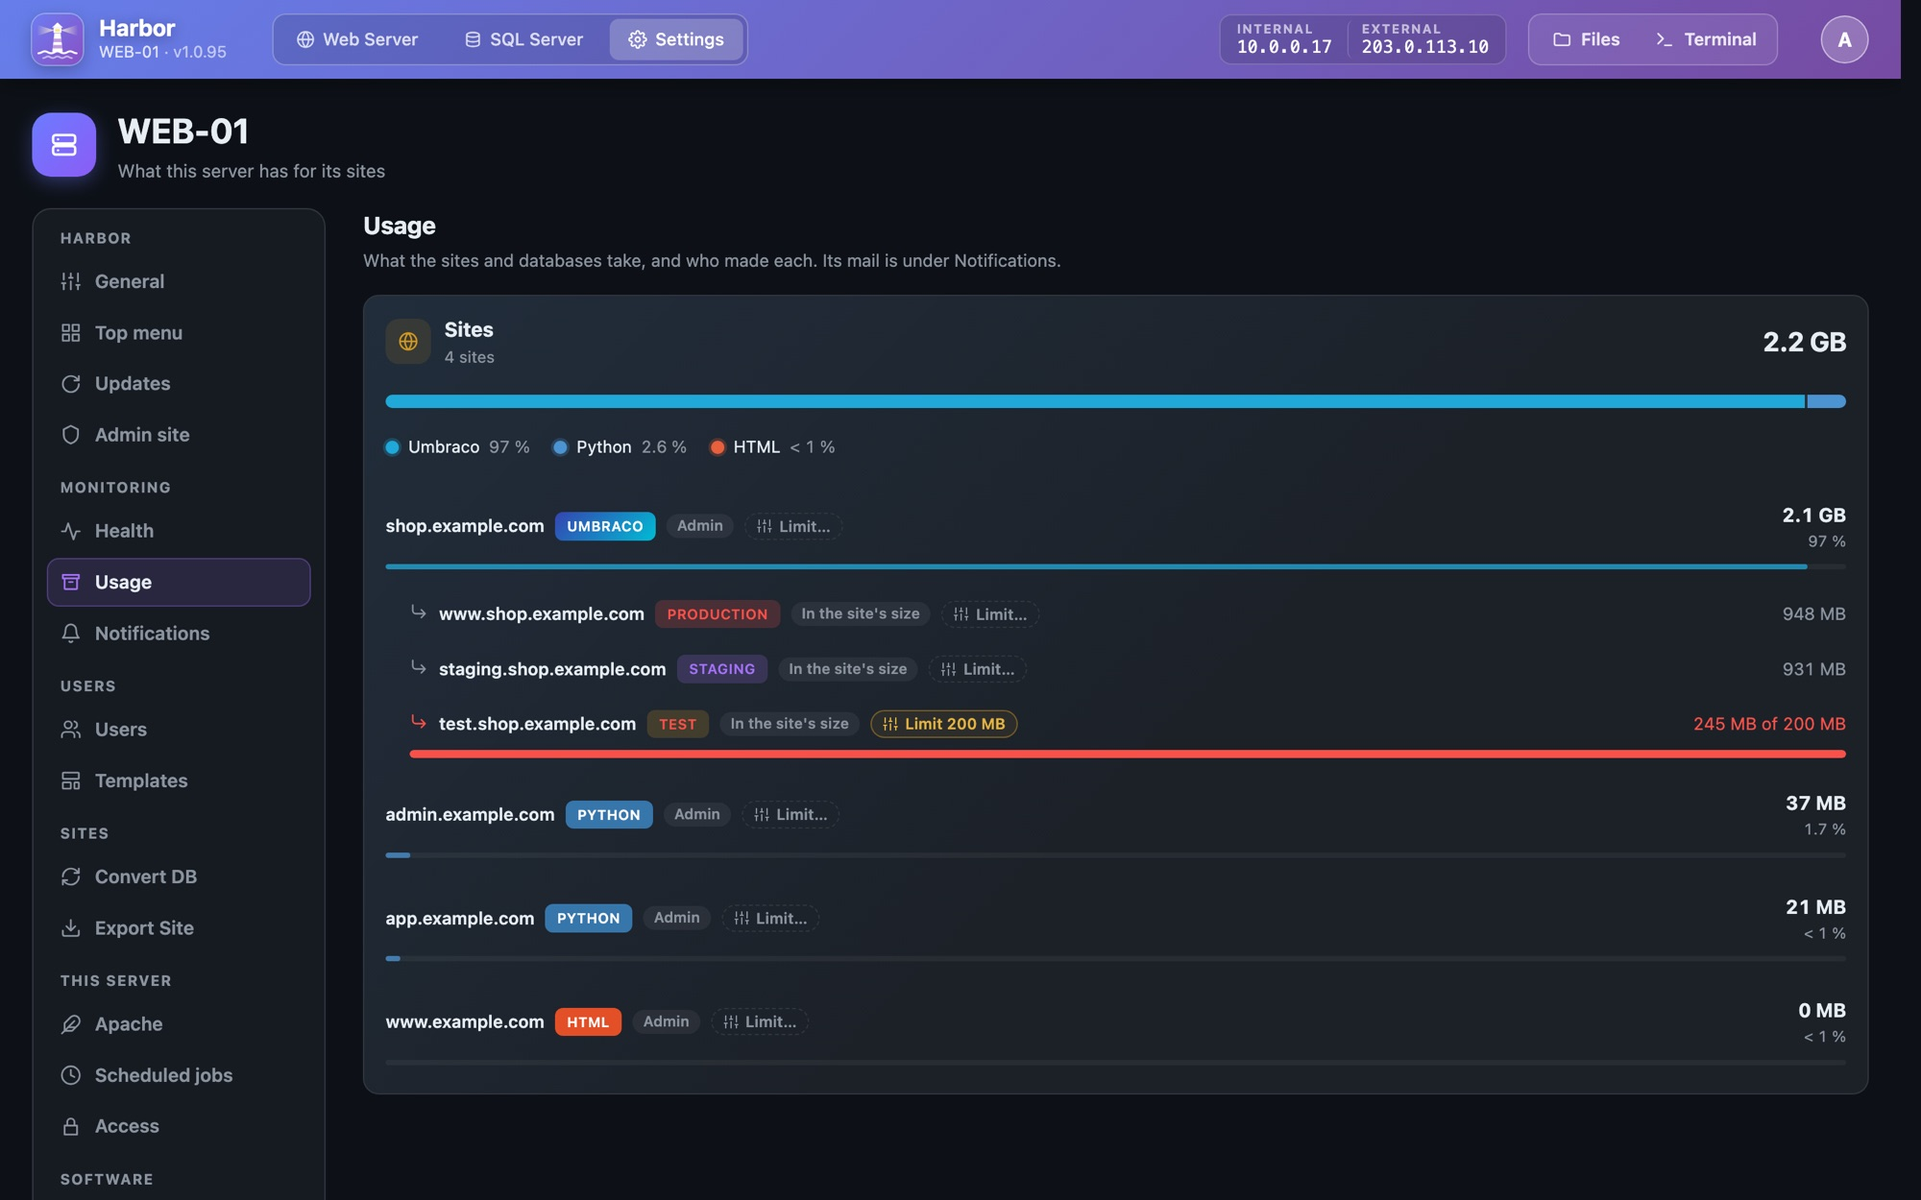
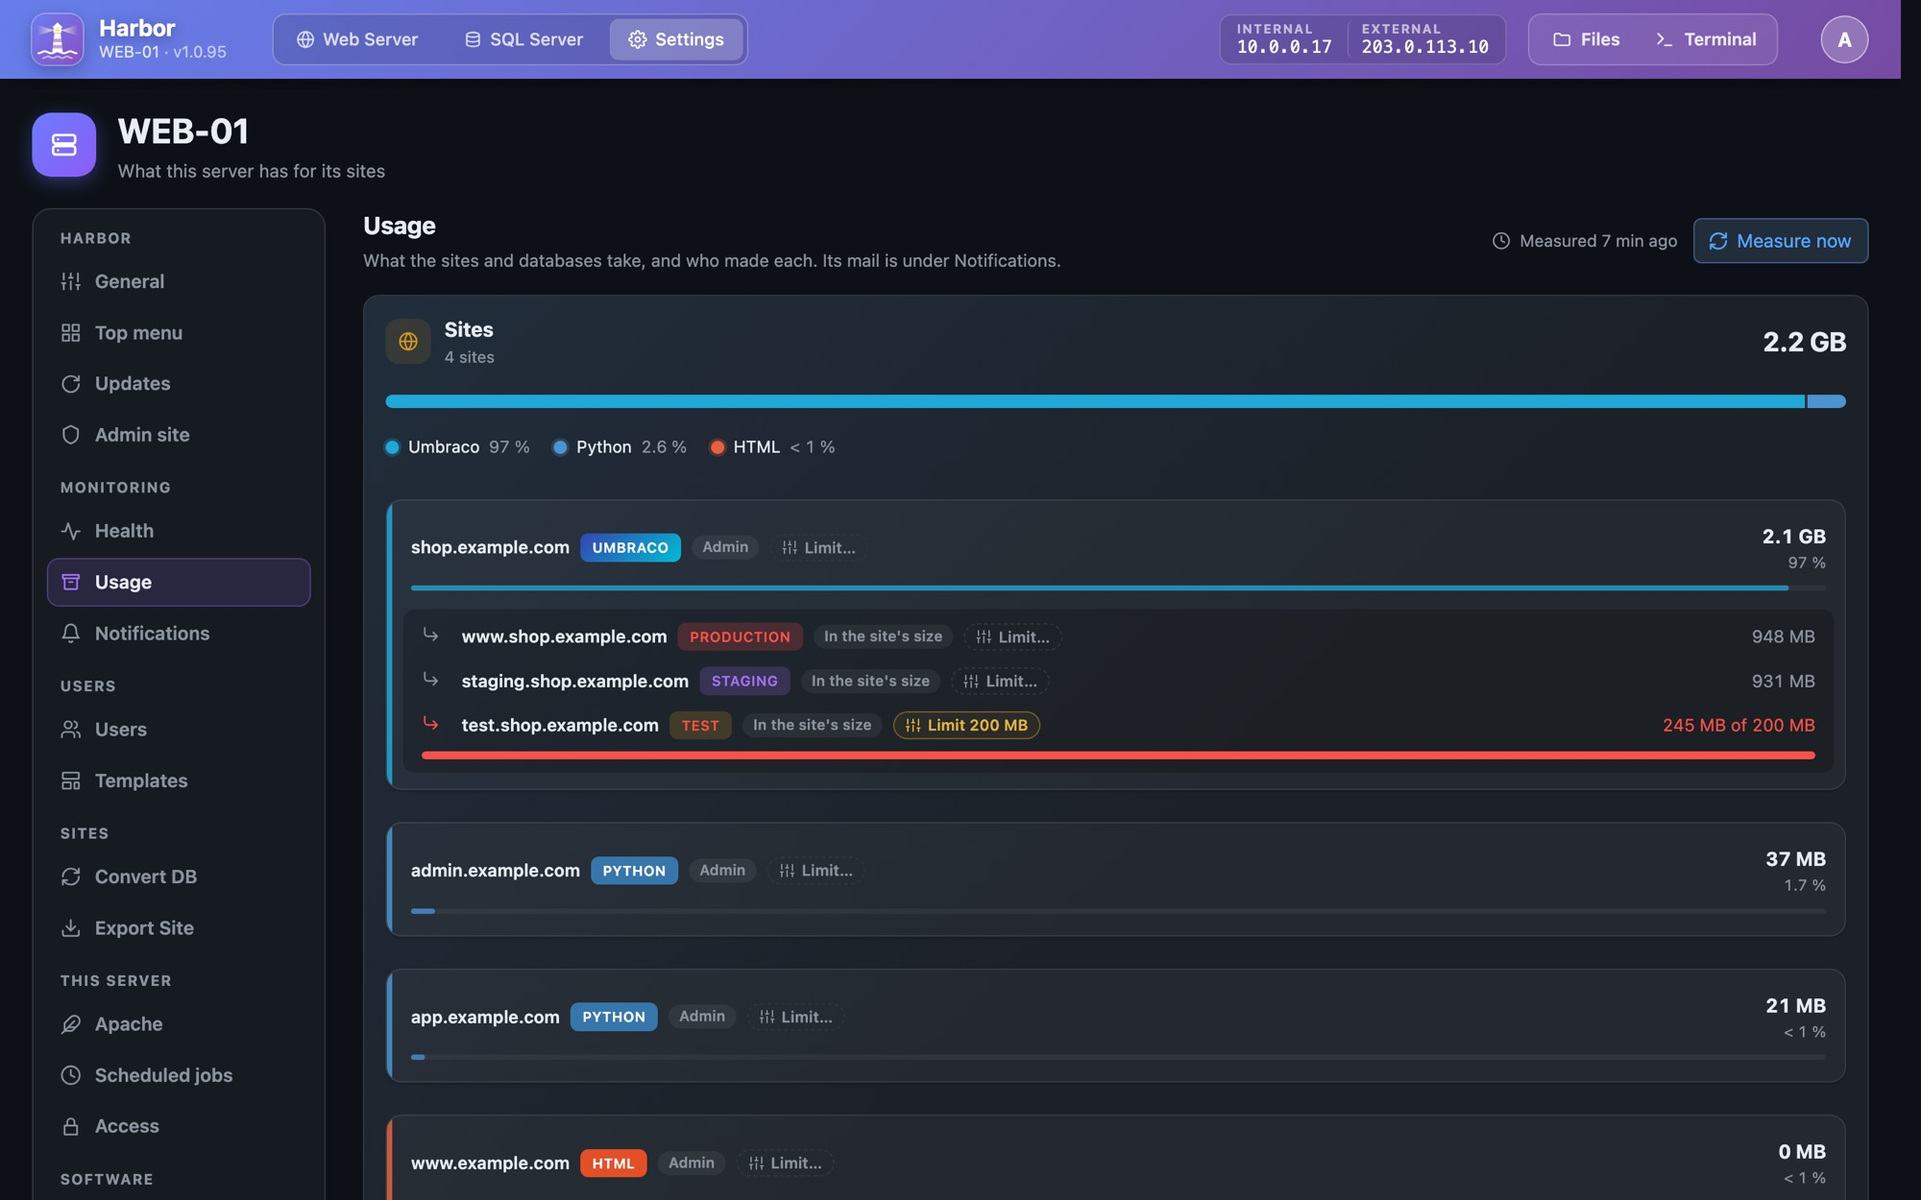
feat: Usage opens at once from the sizes measured last and measures again behind them, each site is framed with its environments, and its lines fit a phone (1.0.96)

diff --git a/admin/static/app.js b/admin/static/app.js
@@ -9697,13 +9697,42 @@ function focusUserLimit(target) {
 
 // Usage under Settings: the alerts, then every site and every database on each connection, biggest first, each with
 // who made it and its limit. Measured as it opens, so it shows what is there now.
-async function openUsageSettings() {
+// The sizes measured last show at once; older than ten minutes, they are measured again behind them, and the page is
+// drawn again when that is done. Measure now asks for it at once.
+let usageMeasuring = null;
+function showUsageMeasured(all) {
+	const box = $("#usage-measured");
+	box.hidden = false;
+	const busy = Boolean(usageMeasuring);
+	box.replaceChildren(el("span", { className: "usage-measured-when" + (busy ? " busy" : ""), title: all?.measured ? `Measured ${formatDate(all.measured * 1000)}` : "" },
+		busy ? el("span", { className: "loading-ring small", ariaHidden: "true" }) : svgIcon("clock"),
+		busy ? "Measuring now…" : all?.measured ? `Measured ${syncAgo(all.measured * 1000)}` : ""),
+		...(busy ? [] : [tonedButton("Measure now", "sync", "blue", () => run(() => openUsageSettings(true)))]));
+}
+async function openUsageSettings(fresh = false) {
 	const list = $("#server-usage-list");
+	if (fresh && usageMeasuring) return usageMeasuring;
 	list.setAttribute("aria-busy", "true");
 	const measuring = el("div", { className: "tool-card tool-card-wide usage-overview" }, loadingState("Measuring the sites and databases…"));
-	list.replaceChildren(measuring);
+	// Fresh sizes are measured behind what is shown; only an empty page shows the measuring
+	if (!fresh || !list.querySelector(".usage-overview:not(:has(.loading-state))")) list.replaceChildren(measuring);
+	let all, known;
 	try {
-		const [all, known] = await Promise.all([api("/api/usage/all"), sitesLoaded ? Promise.resolve({ sites: allSites }) : api("/api/sites").catch(() => ({ sites: [] }))]);
+		const request = api("/api/usage/all" + (fresh ? "?fresh=1" : ""));
+		if (fresh) {
+			usageMeasuring = request;
+			showUsageMeasured(null);
+		}
+		try {
+			[all, known] = await Promise.all([request, sitesLoaded ? Promise.resolve({ sites: allSites }) : api("/api/sites").catch(() => ({ sites: [] }))]);
+		} finally {
+			if (fresh) usageMeasuring = null;
+		}
+		// Gone to another page meanwhile: nothing to draw
+		if (fresh && !serverTabOpen("usage")) return;
+		if (!list.contains(measuring)) list.replaceChildren(measuring);
+		showUsageMeasured(all);
+		if (all.stale && !fresh) setTimeout(() => { if (serverTabOpen("usage")) run(() => openUsageSettings(true)); });
 		// Each site's kind beside its name, as its card on Web Server has it
 		const kindOf = Object.fromEntries((known.sites || []).map((site) => [site.name, site.kind]));
 		const total = (items) => usageSize(Math.round(items.reduce((sum, item) => sum + item.size_mb, 0) * 10) / 10);
@@ -9768,8 +9797,12 @@ async function openUsageSettings() {
 						onclick: () => run(() => askUsageLimit(limitTarget.site ? "site" : "database", item.name, limitTarget.connection || "", item.server_limit_mb)) },
 						svgIcon("sliders"), item.server_limit_mb ? `Limit ${usageSize(item.server_limit_mb)}` : "Limit…"));
 					if (!line.querySelector(".usage-bar")) line.append(el("div", { className: "usage-share-bar" }, el("span", { style: `width: ${Math.max(share(item), item.size_mb ? 1 : 0)}%` })));
-					// A site's environments under it, as Export and Convert DB list them
-					return [line, ...(icon === "globe" ? environmentLines(item.name) : [])];
+					// A site's environments under it, as Export and Convert DB list them: the site and they framed together,
+					// so one site is told from the next at a glance
+					if (icon !== "globe") return [line];
+					const envs = environmentLines(item.name);
+					return [el("div", { className: "usage-site-group kind-" + kind + (envs.length ? " has-envs" : "") }, line,
+						...(envs.length ? [el("div", { className: "usage-site-envs" }, ...envs)] : []))];
 				}) : [el("p", { className: "muted usage-none", textContent: empty })]));
 		};
 		// A database opens the SQL page on its connection, its tab Databases
@@ -9823,6 +9856,11 @@ async function openUsageSettings() {
 				return part;
 			}), ...environmentsPart);
 	} catch (error) {
+		// Measured again behind what is shown: that stays, and the error is told as any other
+		if (!list.contains(measuring)) {
+			showUsageMeasured(all);
+			throw error;
+		}
 		measuring.replaceChildren(el("p", { className: "error", textContent: error.message }));
 	} finally {
 		list.removeAttribute("aria-busy");

diff --git a/admin/static/style.css b/admin/static/style.css
@@ -1729,6 +1729,23 @@ body[data-role="user"] #settings-menu, body[data-role="user"] #btn-multi { displ
 .usage-meter-head strong { display: inline-flex; align-items: center; min-width: 0; }
 .usage-meter-head strong { overflow: hidden; text-overflow: ellipsis; white-space: nowrap; font-weight: 600; }
 .usage-meter-head span { flex: none; color: var(--muted); font-variant-numeric: tabular-nums; }
+/* A line's name and its chips wrap where the room ends (a phone, a long name), never past the card's edge */
+.usage-overview .usage-meter-head strong { flex: 1 1 auto; flex-wrap: wrap; gap: 6px 8px; overflow: visible; white-space: normal; }
+.usage-overview .usage-meter-head strong > .badge, .usage-overview .usage-meter-head strong > .usage-owner,
+.usage-overview .usage-meter-head strong > .usage-limit-link { margin-left: 0; }
+.usage-overview .usage-open { min-width: 0; white-space: normal; overflow-wrap: anywhere; text-align: left; }
+.usage-overview, .usage-overview > *, .usage-site-group > *, .usage-site-envs > * { min-width: 0; }
+@media (max-width: 640px) {
+	.usage-overview .usage-meter-head { align-items: flex-start; }
+	.usage-overview .usage-site-group { padding: 6px 10px 6px 14px; }
+	.usage-overview .usage-site-envs { margin-left: -4px; margin-right: -4px; }
+	.usage-overview .usage-site-envs .usage-meter.usage-env { padding: 6px 4px; }
+	/* The name on a line of its own, its chips in a row under it; an environment's bend in front, hanging */
+	.usage-overview .usage-meter-head strong > .usage-open { flex-basis: 100%; }
+	.usage-overview .usage-env .usage-meter-head strong { position: relative; padding-left: 22px; }
+	.usage-env-bend { position: absolute; left: 0; top: 1px; margin: 0; }
+	.server-pane-head .usage-measured { width: 100%; justify-content: space-between; }
+}
 .usage-bar { height: 6px; border-radius: 999px; background: rgba(255, 255, 255, .07); overflow: hidden; }
 .usage-bar span { display: block; height: 100%; border-radius: inherit; background: var(--green); }
 .usage-meter.near .usage-bar span { background: #d29922; }
@@ -1804,6 +1821,21 @@ body[data-role="user"] #settings-menu, body[data-role="user"] #btn-multi { displ
 .usage-overview .usage-meter.over .usage-size strong { color: var(--red); }
 .usage-share-bar { height: 4px; overflow: hidden; border-radius: 999px; background: rgba(255, 255, 255, .05); }
 .usage-share-bar span { display: block; height: 100%; border-radius: inherit; background: var(--k); opacity: .75; }
+/* Each site framed with its environments, so one site is told from the next: a frame of its own, a stripe in its
+   kind's colour at its left, and its environments in a darker well inside it */
+.usage-site-group { position: relative; display: grid; gap: 0; margin: 6px 0; padding: 8px 14px 8px 18px; overflow: hidden;
+	border: 1px solid rgba(255, 255, 255, .09); border-radius: 12px; background: rgba(255, 255, 255, .035); box-shadow: 0 1px 2px rgba(0, 0, 0, .25); }
+.usage-site-group::before { content: ""; position: absolute; inset: 0 auto 0 0; width: 4px; background: var(--k); opacity: .85; }
+.usage-overview .usage-site-group > .usage-meter { margin: 0 -6px; padding: 8px 6px; }
+.usage-overview .usage-site-group > .usage-meter:hover:not(:where(:disabled, .disabled, .off)) { background: transparent; }
+.usage-site-envs { display: grid; gap: 0; margin: 6px -6px 4px; padding: 4px 6px; border-radius: 9px; background: rgba(0, 0, 0, .22); }
+.usage-overview .usage-site-envs .usage-meter.usage-env { margin: 0; padding: 6px 8px; }
+/* When the sizes were measured, and Measure now: at the right of the page's head */
+.usage-measured { display: flex; align-items: center; gap: 12px; flex-wrap: wrap; }
+.usage-measured[hidden] { display: none; }
+.usage-measured-when { display: inline-flex; align-items: center; gap: 7px; color: var(--muted); font-size: 12.5px; white-space: nowrap; }
+.usage-measured-when .ico { width: 14px; height: 14px; margin: 0; }
+.loading-ring.small { width: 14px; height: 14px; filter: none; -webkit-mask: radial-gradient(farthest-side, transparent calc(100% - 2px), #000 calc(100% - 2px)); mask: radial-gradient(farthest-side, transparent calc(100% - 2px), #000 calc(100% - 2px)); }
 /* A site's environment under it: in a step, after a bend, as Export lists them */
 .usage-overview .usage-meter.usage-env { margin-left: 8px; padding-top: 4px; padding-bottom: 4px; }
 .usage-env .usage-meter-head strong { font-weight: 500; }

diff --git a/admin/templates/index.html b/admin/templates/index.html
@@ -191,7 +191,7 @@
           <div id="server-menu-list" class="server-tools"></div>
         </div>
         <div id="server-pane-usage" class="server-pane" role="tabpanel" aria-labelledby="server-tab-usage" hidden>
-          <div class="server-pane-head"><div><h3>Usage</h3><p>What the sites and databases take, and who made each. Its mail is under Notifications.</p></div></div>
+          <div class="server-pane-head"><div><h3>Usage</h3><p>What the sites and databases take, and who made each. Its mail is under Notifications.</p></div><div id="usage-measured" class="usage-measured" hidden></div></div>
           <div id="server-usage-list" class="server-tools"></div>
         </div>
         <div id="server-pane-users" class="server-pane" role="tabpanel" aria-labelledby="server-tab-users" hidden>

diff --git a/lib/usage.py b/lib/usage.py
@@ -312,16 +312,23 @@ def site_limits(data_dir, site, measure_site=site_mb):
             "limit_mb": site_limit(owner, site) if owner else None, "user": (owner.get("name") or owner.get("username")) if owner else None}
 
 
-def overview(data_dir, sites, connections, measure_site=site_mb, measure_databases=database_sizes, measure_environment=None, measure_environments=None):
-    """Every site here and every database on each connection (system databases left out), how big each is now, who
-    made it and the limit that holds for it: for an administrator. sites: the site folders; connections: {id: name}."""
+def measure_all(data_dir, sites, connections, measure_site=site_mb, measure_databases=database_sizes, measure_environments=None):
+    """How big every site here, every environment and every database on each connection is now: what takes time in
+    Usage, kept apart from who has what and their limits, so it can be kept a while (usage-sizes.json, 1.0.95)"""
+    return {"sites": {site: measure_site(site) for site in sites},
+            "environments": measure_environments() if measure_environments else all_environments_mb(),
+            "databases": {connection: measure_databases(data_dir, connection, user_only=True) for connection in connections},
+            "engines": {connection: connection_engine(data_dir, connection) for connection in connections}}
+
+
+def overview_of(data_dir, sizes, connections):
+    """Usage from sizes measured (measure_all): with who made each and the limits as they are now, as a limit changed
+    shows at once, also on sizes kept from before"""
     users = plain_users(data_dir)
     site_owner = site_owners(users)
     result = {"sites": [], "connections": []}
     server_limits = load_limits(data_dir)
-    measure_environment = measure_environment or environment_mb
-    for site in sites:
-        size = measure_site(site)
+    for site, size in sizes["sites"].items():
         if size is None:
             continue
         owner = site_owner.get(site)
@@ -330,22 +337,52 @@ def overview(data_dir, sites, connections, measure_site=site_mb, measure_databas
                                 "limit_mb": site_limit(owner, site) if owner else None, "server_limit_mb": server_limits.get(f"site|{site}")})
     # Every environment, measured where it runs (here or on its server), with the server's limit on it
     result["environments"] = [{**item, "server_limit_mb": server_limits.get(f"environment|{item['site']}|{item['target']}")}
-                              for item in (measure_environments() if measure_environments else all_environments_mb())]
+                              for item in sizes["environments"]]
     for connection, label in connections.items():
-        sizes = measure_databases(data_dir, connection, user_only=True)
+        found = sizes["databases"].get(connection) or {}
         owners = {name: user for user in users for name in ((user.get("made") or {}).get("databases") or {}).get(connection, [])}
         items = []
-        for name, size in sizes.items():
+        for name, size in found.items():
             owner = owners.get(name)
             items.append({"name": name, "size_mb": round(size, 1), "user": (owner.get("name") or owner.get("username")) if owner else None,
                           "user_id": owner.get("id") if owner else None,
                           "limit_mb": database_limit(owner, connection, name) if owner else None,
                           "server_limit_mb": server_limits.get(f"database|{connection}|{name}")})
-        result["connections"].append({"id": connection, "name": label, "unreachable": not sizes, "databases": items,
-                                      "engine": connection_engine(data_dir, connection)})
+        result["connections"].append({"id": connection, "name": label, "unreachable": not found, "databases": items,
+                                      "engine": sizes.get("engines", {}).get(connection)})
     for part in [result["sites"]] + [item["databases"] for item in result["connections"]]:
         part.sort(key=lambda item: -item["size_mb"])
     return result
+
+
+def overview(data_dir, sites, connections, measure_site=site_mb, measure_databases=database_sizes, measure_environment=None, measure_environments=None):
+    """Every site here and every database on each connection (system databases left out), how big each is now, who
+    made it and the limit that holds for it: for an administrator. sites: the site folders; connections: {id: name}."""
+    return overview_of(data_dir, measure_all(data_dir, sites, connections, measure_site, measure_databases, measure_environments), connections)
+
+
+SIZES_KEPT = 600
+
+
+def kept_overview(data_dir, sites, connections, fresh=False, now=None, **measure):
+    """Usage at once from the sizes measured last (usage-sizes.json), with measured (when) and stale (older than ten
+    minutes, or sites or connections have come or gone since): the page shows it, and asks for fresh sizes after.
+    fresh, or nothing kept yet: measured now, and kept. Who has what and the limits are always as they are now."""
+    now = time.time() if now is None else now
+    path = Path(data_dir) / "usage-sizes.json"
+    kept = report.read_json(path, {}) if not fresh else {}
+    sizes = kept.get("sizes") if isinstance(kept, dict) else None
+    valid = isinstance(sizes, dict) and all(isinstance(sizes.get(key), want) for key, want in
+                                             (("sites", dict), ("environments", list), ("databases", dict)))
+    if not valid:
+        sizes = measure_all(data_dir, sites, connections, **measure)
+        kept = {"measured": now, "sizes": sizes}
+        write_json(path, kept)
+    measured = kept.get("measured") or 0
+    stale = now - measured > SIZES_KEPT or sorted(sizes["sites"]) != sorted(sites) or sorted(sizes["databases"]) != sorted(connections)
+    # A site gone since is not shown, though its size is kept until the next measuring
+    shown = {**sizes, "sites": {site: size for site, size in sizes["sites"].items() if site in sites}}
+    return {**overview_of(data_dir, shown, connections), "measured": measured, "stale": bool(stale)}
 
 
 def size_text(mb):

diff --git a/tests/admin/test_usage.py b/tests/admin/test_usage.py
@@ -242,6 +242,28 @@ class UsageCheckTests(unittest.TestCase):
         self.assertEqual(shown["connections"][0]["name"], "Local SQL Server")
         self.assertFalse(shown["connections"][0]["unreachable"])
 
+    def test_usage_shows_the_sizes_kept_at_once_and_limits_as_they_are_now(self):
+        """Usage is slow to measure (environments on other servers over SSH): the sizes measured last come at once,
+        stale after ten minutes, while the limits are always as they are now (1.0.95)"""
+        measured = []
+        def site(name):
+            measured.append(name)
+            return self.sites.get(name)
+        measure = {"measure_site": site, "measure_databases": lambda data, connection, user_only=False: {}, "measure_environments": lambda: []}
+        first = usage.kept_overview(self.data, ["big.dk"], {}, now=1000, **measure)
+        self.assertEqual((first["measured"], first["stale"], measured), (1000, False, ["big.dk"]))
+        self.sites["big.dk"] = 999.0
+        usage.set_limit(self.data, "site", "big.dk", limit_mb=300)
+        kept = usage.kept_overview(self.data, ["big.dk"], {}, now=1500, **measure)
+        self.assertEqual(measured, ["big.dk"])
+        self.assertEqual((kept["sites"][0]["size_mb"], kept["sites"][0]["server_limit_mb"], kept["stale"]), (250.0, 300, False))
+        self.assertTrue(usage.kept_overview(self.data, ["big.dk"], {}, now=1700, **measure)["stale"])
+        # A site made since makes it stale at once; one gone is not shown
+        self.assertTrue(usage.kept_overview(self.data, ["big.dk", "new.dk"], {}, now=1100, **measure)["stale"])
+        self.assertEqual(usage.kept_overview(self.data, [], {}, now=1100, **measure)["sites"], [])
+        fresh = usage.kept_overview(self.data, ["big.dk"], {}, fresh=True, now=1800, **measure)
+        self.assertEqual((fresh["sites"][0]["size_mb"], fresh["stale"], fresh["measured"]), (999.0, False, 1800))
+
     def test_the_limits_a_site_is_held_to_for_add_environment(self):
         """Add environment tells whether a new environment counts in the site's limits: the server's own and its user's,
         with the site's size now (1.0.95)"""

diff --git a/admin/app.py b/admin/app.py
@@ -284,10 +284,13 @@ def user_usage(user):
 
 @app.route("/api/usage/all")
 def api_usage_all():
-    """Every site and database, how big each is now, who made it and its limit: Usage under Settings"""
+    """Every site and database, how big each is, who made it and its limit: Usage under Settings. The sizes measured
+    last come at once (measuring environments on other servers over SSH takes a while), with when and whether they are
+    stale; ?fresh=1 measures now, and keeps it"""
     require_admin()
     connections = {item["id"]: item.get("name") or item["id"] for item in _sql_module.public_connections(SQL_CONNECTIONS)} if os.path.isfile(SQL_CONNECTIONS) else {}
-    return jsonify(_usage.overview(DATA, site_dirs(), connections, measure_site=lambda site: _usage.site_mb(site, WEB_ROOT)))
+    return jsonify(_usage.kept_overview(DATA, site_dirs(), connections, fresh=request.args.get("fresh") == "1",
+                                        measure_site=lambda site: _usage.site_mb(site, WEB_ROOT)))
 
 
 @app.route("/api/usage/site/<site>")

diff --git a/CHANGELOG.md b/CHANGELOG.md
@@ -2,6 +2,12 @@
 
 All notable changes to VNS Harbor are listed here, newest first.
 
+## [1.0.96] - Unreleased
+
+### Features
+
+- Usage opens at once: the sizes measured last are shown (with when, and Measure now), and measured again behind them when they are older than ten minutes or a site or connection has come or gone; limits and who has what are always as they are now. Each site is framed with its environments, a stripe in its kind's colour at its left and its environments in a darker well, so one is told from the next. On a phone each line wraps inside its card: the name on its own line, its chips under it.
+
 ## [1.0.95] - 2026-11-27
 
 ### Features
